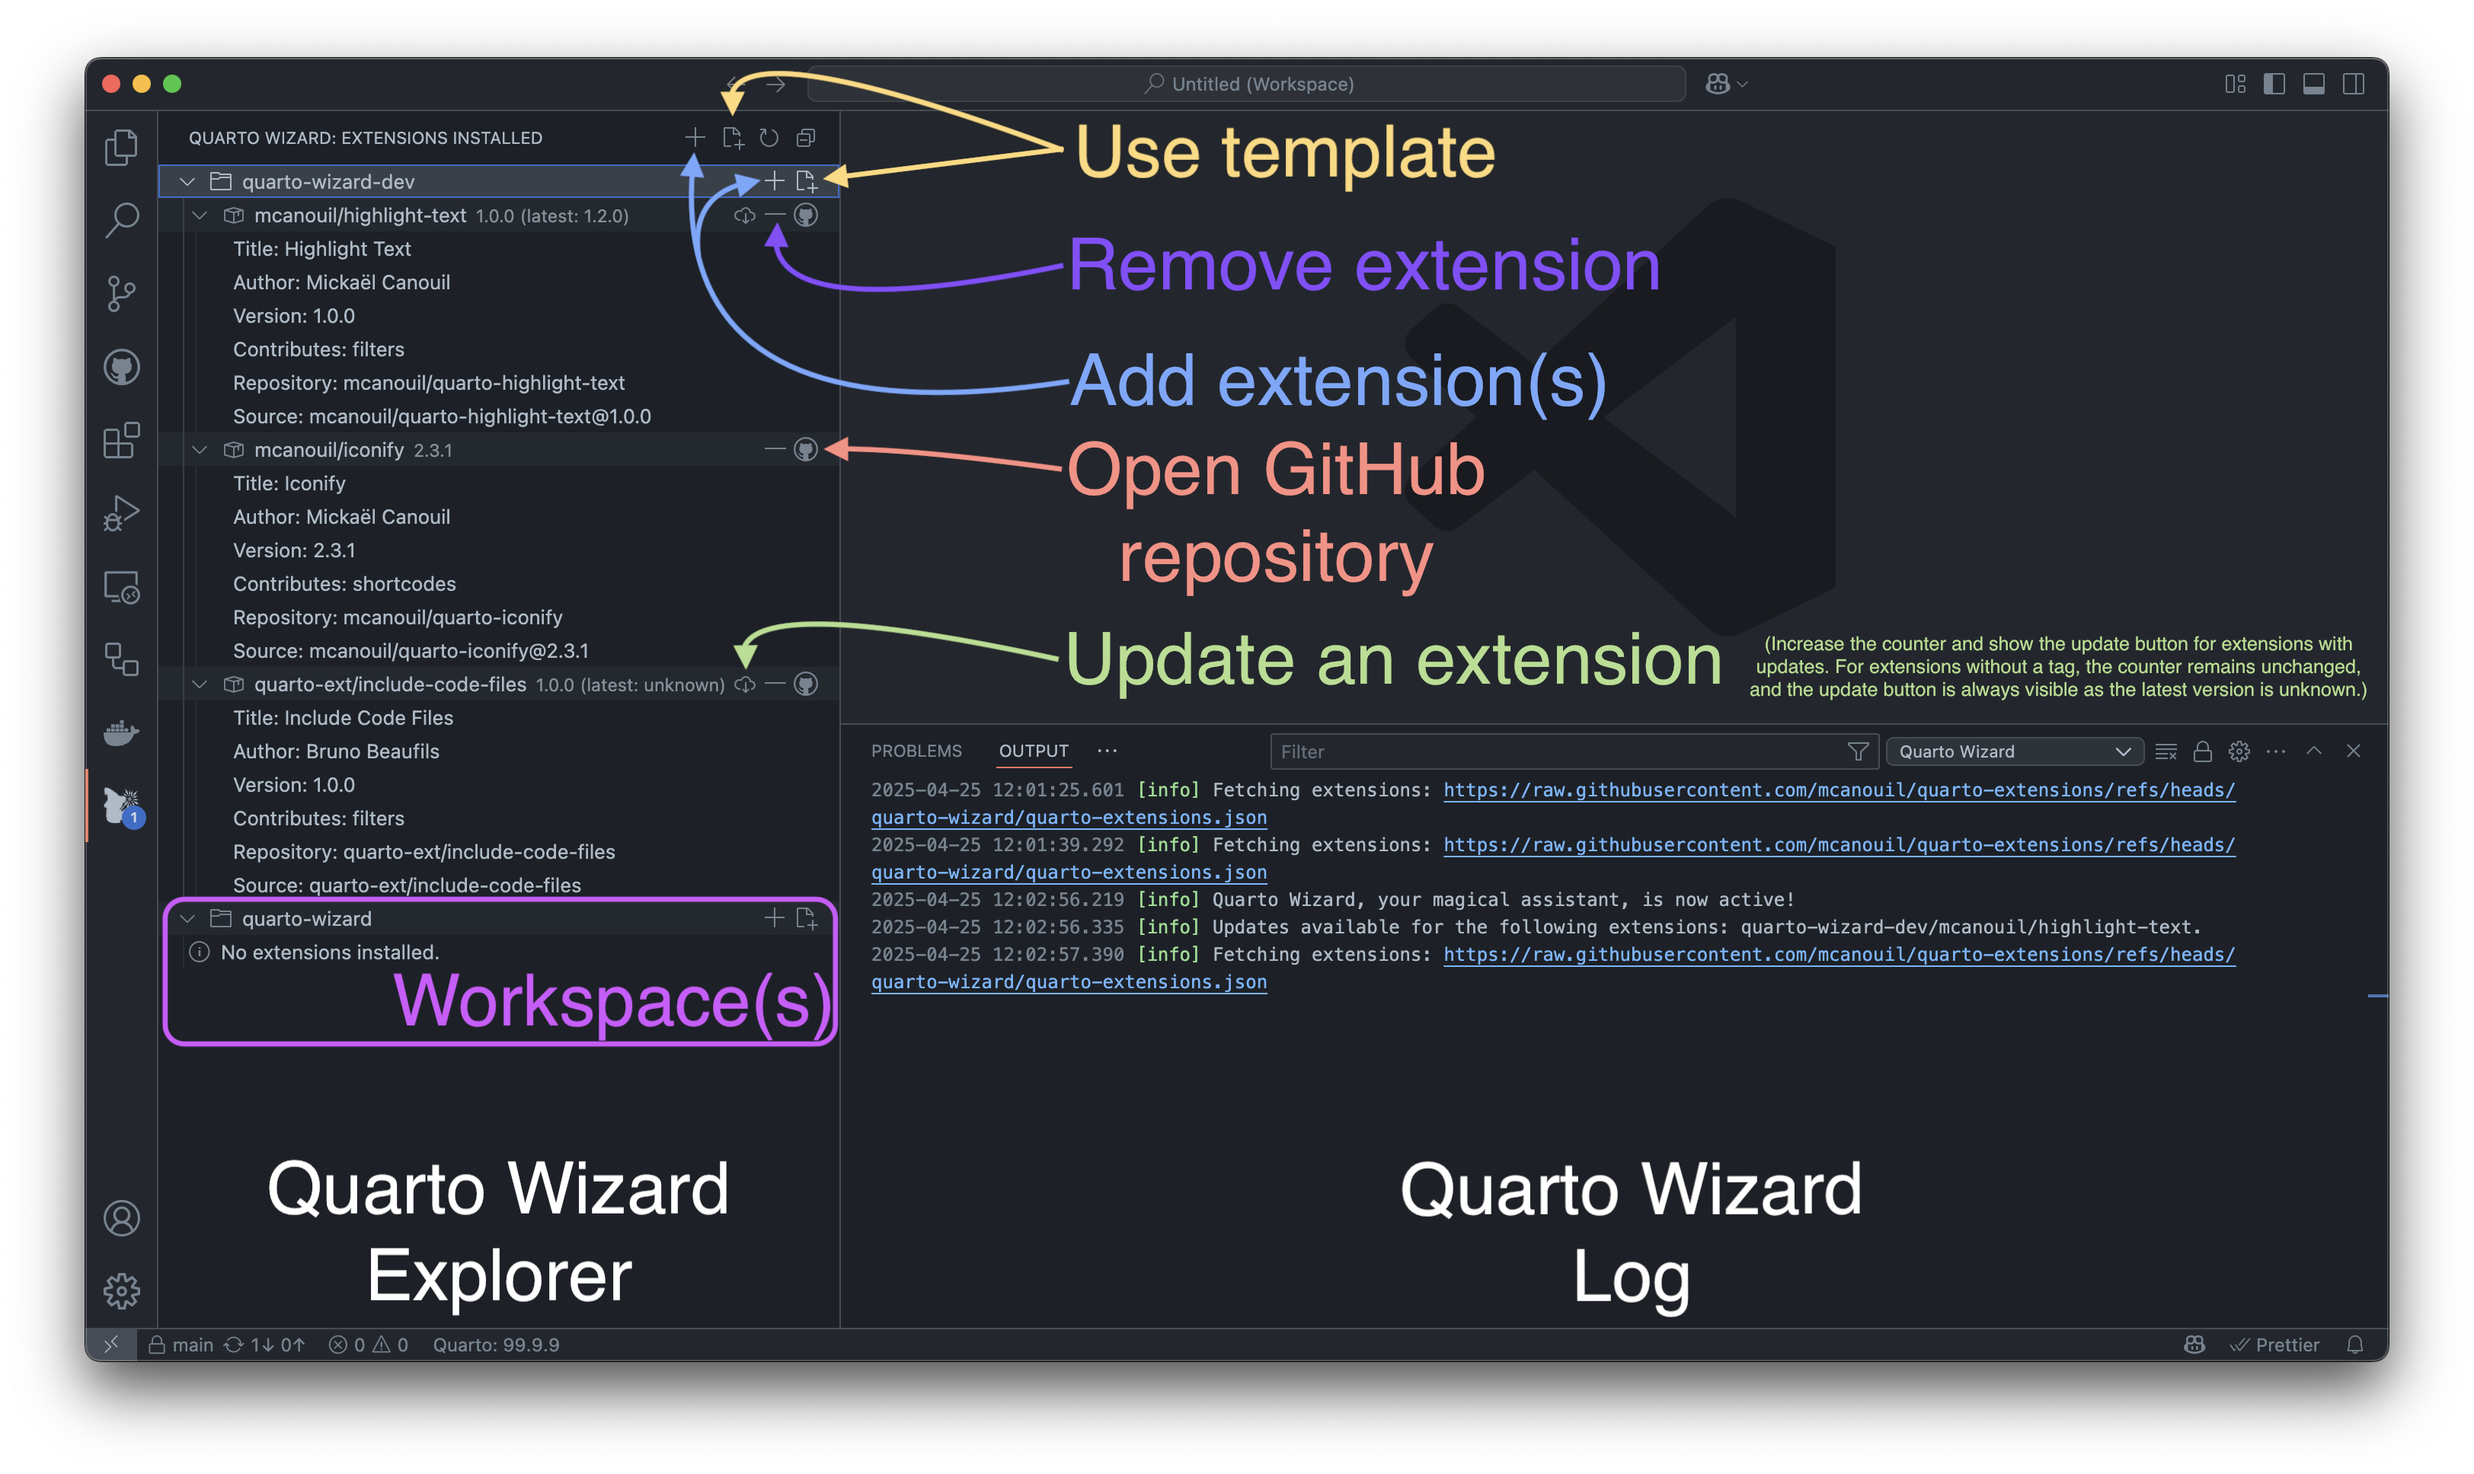
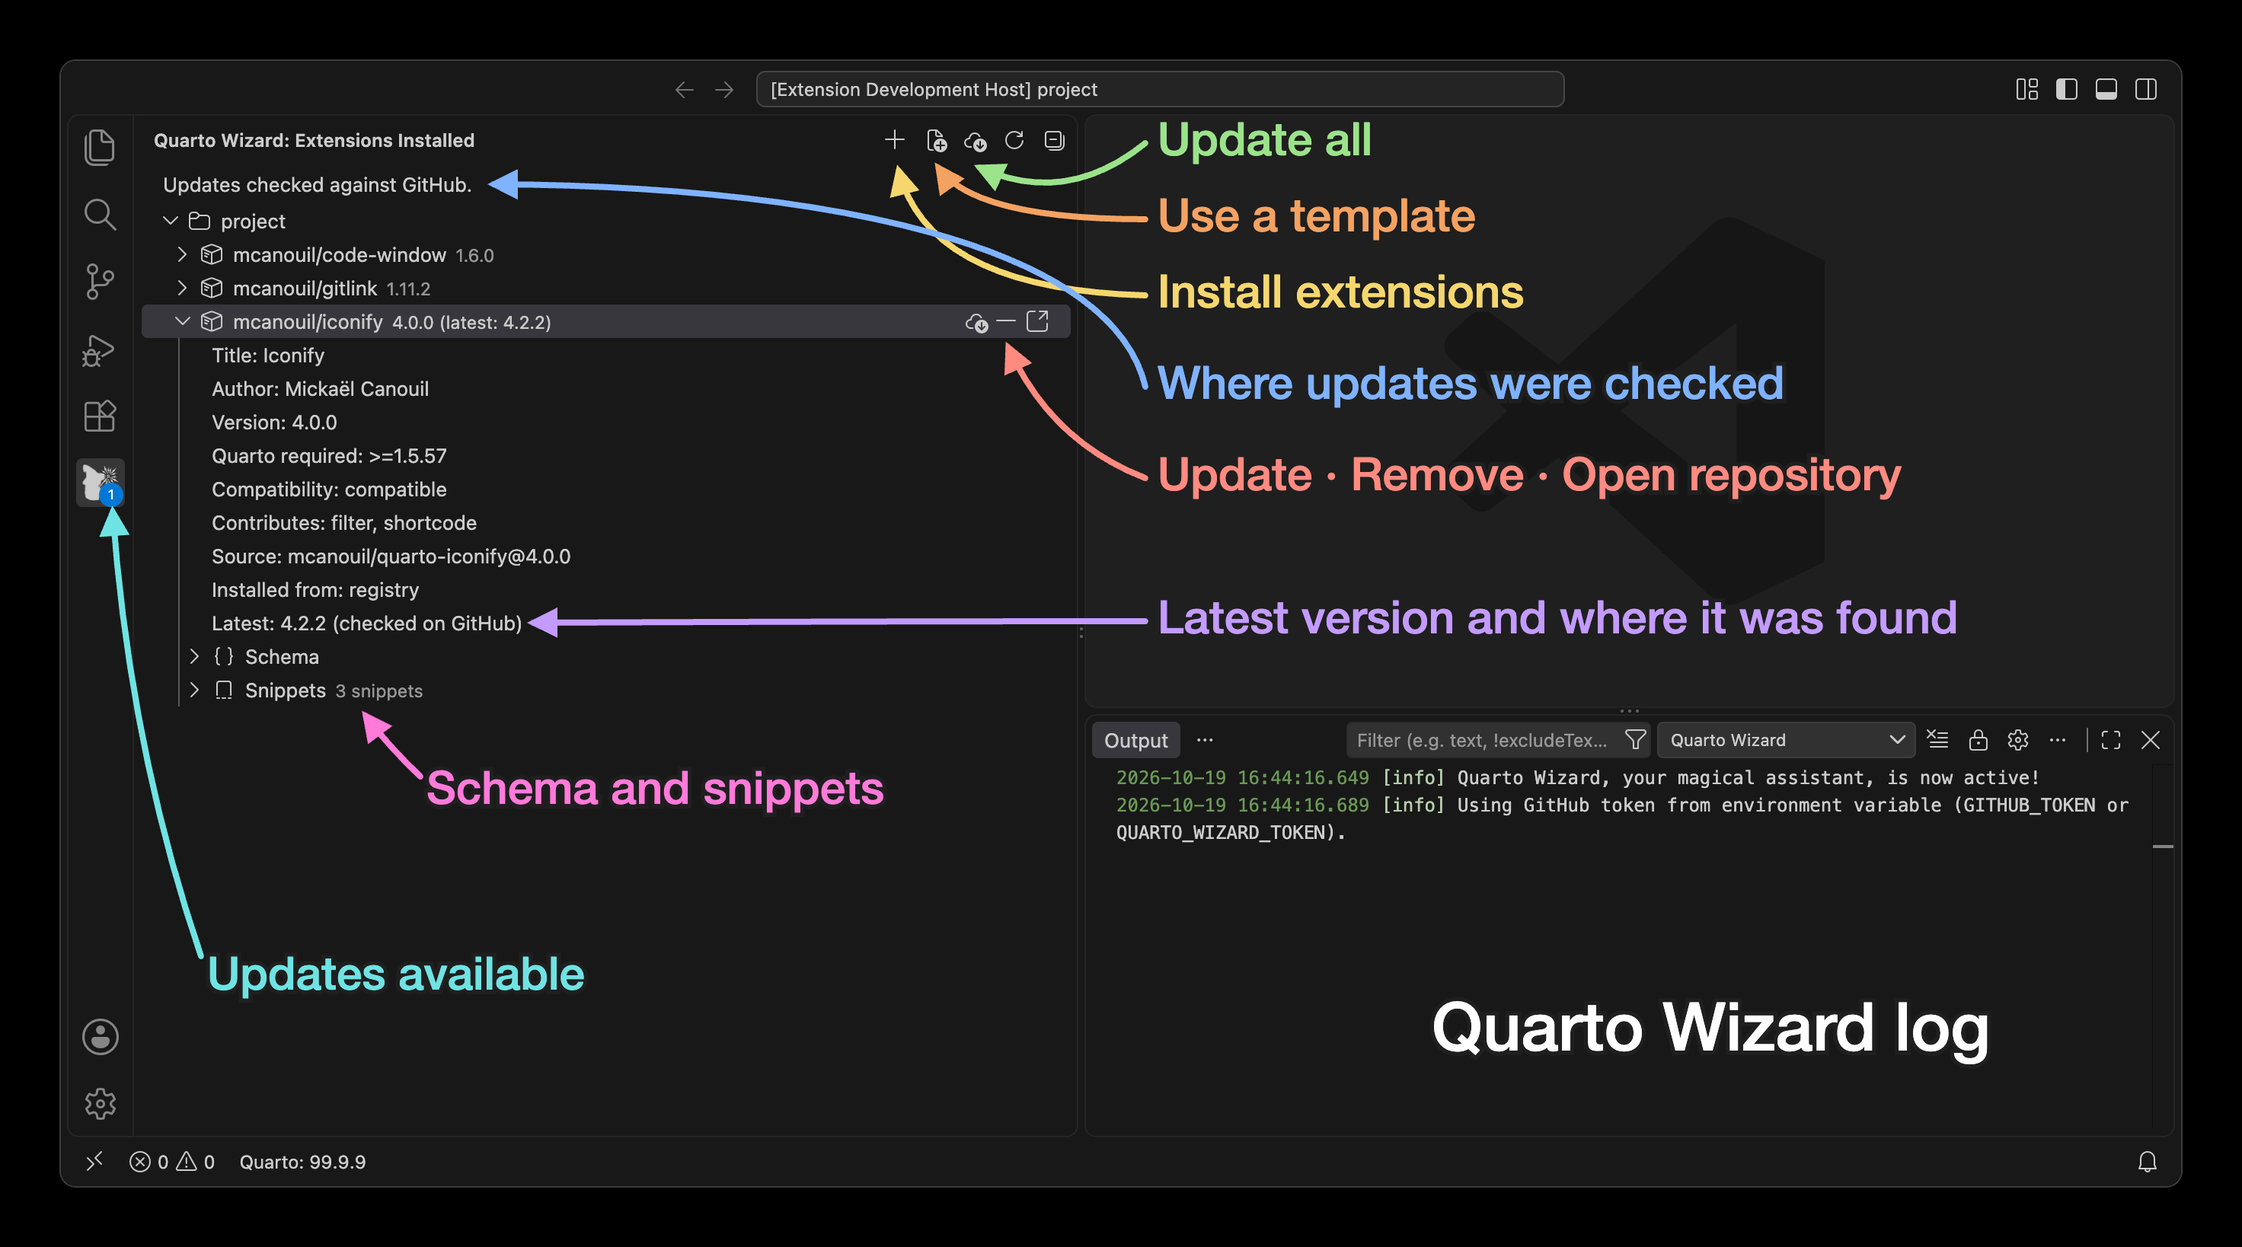
docs: refresh the walkthrough screenshot (#495)

diff --git a/assets/walkthroughs/explorer-view.md b/assets/walkthroughs/explorer-view.md
@@ -20,6 +20,6 @@ If it reads `Updates checked against the registry. Sign in to GitHub to see new 
 
 [Open Explorer View](command:workbench.view.extension.quarto-wizard-explorer)
 
-![Quarto Wizard Explorer View with installed extensions, compatibility details, schema and snippet nodes, and management actions](./media/explorer-view.png)
+![The Extensions Installed view, with labels on the Install Extensions, Use Template and Update All buttons, the line that says updates were checked against GitHub, an extension that shows version 4.0.0 with latest 4.2.2 and its Update, Remove and Open Repository buttons, the Latest detail row, the Schema and Snippets nodes, the update badge on the activity bar, and the Quarto Wizard log](./media/explorer-view.png)
 
 [Full guide](https://m.canouil.dev/quarto-wizard/getting-started/explorer-view.html)
